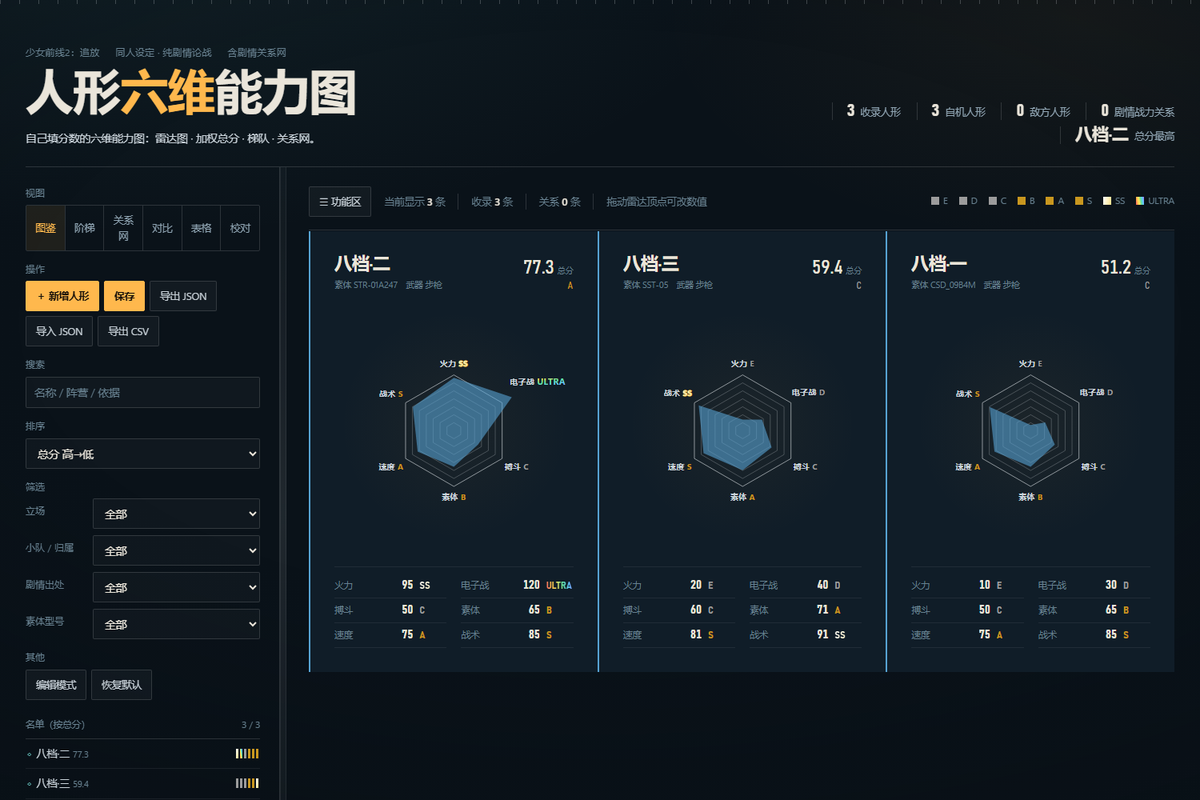
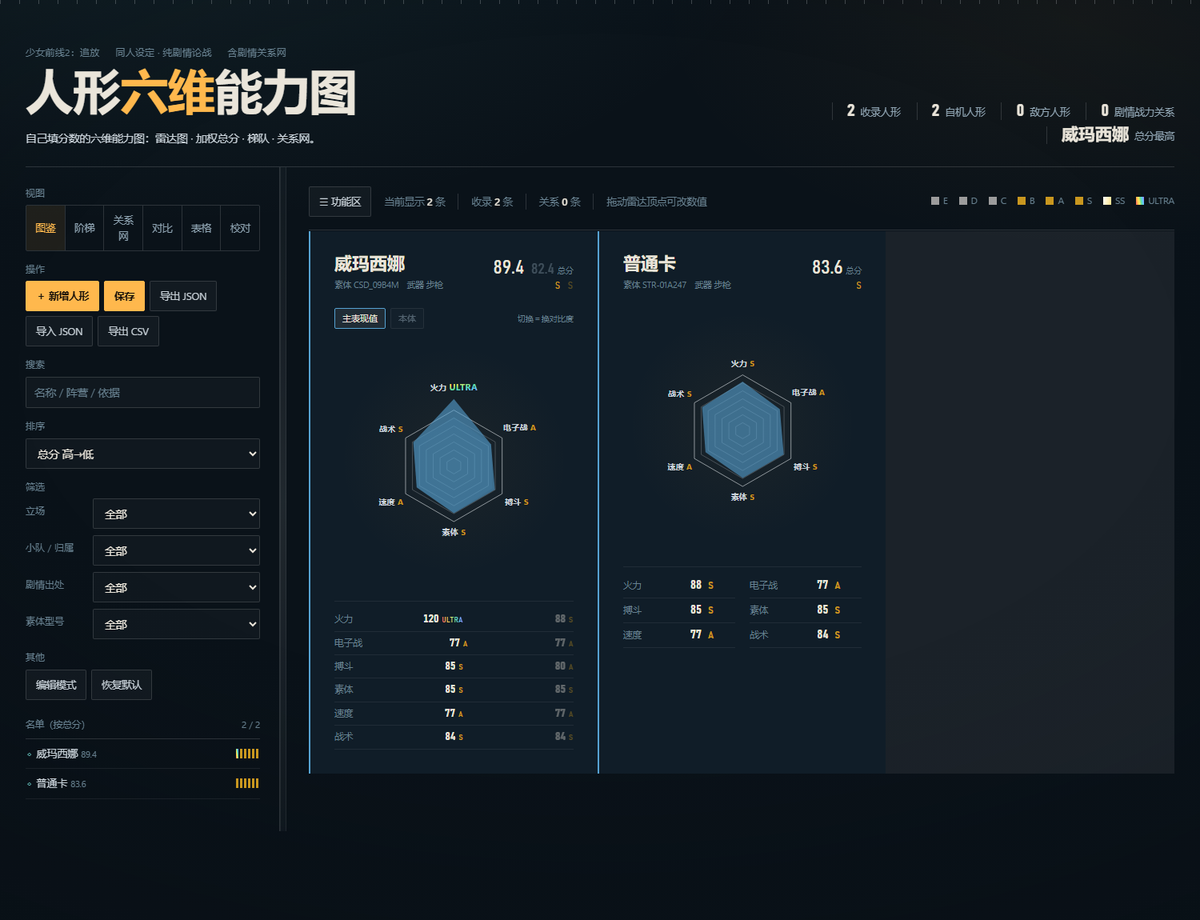
feat(dual): 双形态重新接回——改为条目自带第二形态 + 威玛西娜/六分仪一键预设
- 内置数据清空后双形态没有数据可显示，故把双形态做成条目属性：编辑人形时填「主形态名称 / 第二形态名称 + 第二形态六维数值」
- 保存为 e.formLabel / e.form2={label,vals}；fvOf() 优先读条目自带，其次回退内置 FORM_DATA（按名字匹配）
- 编辑弹窗新增「双形态」区：两个名称输入 + 六个数值输入 + 一键预设下拉（会连同主形态数值一起填入）
- 预设：威玛西娜 带断罪者／本体、六分仪 入队时／当反派时（数值取自 _work/archive 归档）
- 卡片：双形态时渲染 .dual（两条折线、切换按钮、双总分、双列账本），切换＝换对比度
- 端到端实测：预设→保存→卡变 dual（图元 2、按钮 2、账本双列），点击切换 data-active 0↔1 正常；19 PASS
- 更新 README 预览图与进展摘要

diff --git a/少前2_人形六维能力图.html b/少前2_人形六维能力图.html
@@ -178,6 +178,14 @@ table.roster td.num{font-variant-numeric:tabular-nums}
 .sheet h2{font-family:var(--dsp);font-size:26px;font-weight:600;margin-bottom:18px}
 .grid2{display:grid;grid-template-columns:1fr 1fr;gap:14px}
 .grid2 .full{grid-column:1/-1}
+.form2{margin-top:16px;border-top:1px solid var(--line-soft);padding-top:12px}
+.form2 .f2head{display:flex;flex-wrap:wrap;gap:10px;align-items:center;margin-bottom:9px;font-size:11.5px;color:var(--paper-faint)}
+.form2 .f2head b{color:var(--paper-2);font-weight:600;font-size:12.5px}
+.form2 .f2head select{margin-left:auto;padding:3px 6px;background:var(--ink-900);border:1px solid var(--line);border-radius:2px;color:var(--paper-2);font-size:12px}
+.form2 .f2row{display:grid;grid-template-columns:1fr 1fr;gap:12px;margin-bottom:9px}
+.form2 .f2vals{display:grid;grid-template-columns:repeat(6,1fr);gap:8px}
+.form2 .f2vals label{display:flex;flex-direction:column;gap:4px;font-size:11px;color:var(--paper-faint)}
+.form2 .f2vals input{width:100%;padding:3px 5px;background:rgba(0,0,0,.22);border:1px solid var(--line);border-radius:2px;color:inherit;font-variant-numeric:tabular-nums}
 .sliders{margin-top:20px;border-top:1px solid var(--line);padding-top:14px}
 .editcmp{display:flex;gap:20px;align-items:flex-start;margin-top:16px;border-top:1px solid var(--line);padding-top:14px}
 .editchart{flex:0 0 290px}.editchart svg{width:290px;height:290px;display:block}
@@ -393,6 +401,18 @@ svg.net{display:block;width:100%;height:auto}
       </div>
     </div>
     <div class="sliders" id="mSliders"></div>
+    <div class="form2">
+      <div class="f2head"><b>双形态</b>
+        <span>填了「第二形态」这张卡就会多出切换按钮（同一张图叠两形态，切换＝换对比度）</span>
+        <select id="mFormPreset"><option value="">载入预设…</option>
+          <option value="wmx">威玛西娜 · 带断罪者／本体</option>
+          <option value="lfy">六分仪 · 入队时／当反派时</option></select></div>
+      <div class="f2row">
+        <label class="field"><span>主形态名称</span><input id="mFormLabel" type="text" placeholder="主表现值"></label>
+        <label class="field"><span>第二形态名称</span><input id="mForm2Label" type="text" placeholder="如 本体"></label>
+      </div>
+      <div class="f2vals" id="mForm2Vals"></div>
+    </div>
     <div class="sheetactions"><button class="btn" id="mCancel">取消</button><button class="btn solid" id="mSave">保存</button></div>
   </div>
 </div>
@@ -720,7 +740,7 @@ function ledgerHTML(e){
 function cardHTML(e, idx, opts){
   opts = opts || {};
   var acc = ACC[e.side] || ACC.self;
-  var fv = fvOf(e.name);
+  var fv = fvOf(e);
   var V = fv ? fv.forms.map(function(f){ return fvValues(fv, f); }) : null;
   var series = fv ? fv.forms.map(function(f, i){ return { vals: V[i], color: acc, cls: 'fp f' + i }; })
                   : [{ vals:e.s, color:acc, letters:dimLettersOf(e) }];
@@ -1082,11 +1102,25 @@ function renderTable(){
 
 /* ---------- 双形态缩略图（威玛西娜 / 六分仪：同一张六维图叠两形态，切换＝换对比度） ---------- */
 var formPick = null;
-function fvOf(name){
+function fvOf(x){
+  var e = (typeof x === 'string') ? byName(x) : x;
+  /* ① 条目自带双形态（编辑弹窗里填的「第二形态」，优先级最高） */
+  if (e && e.form2 && e.form2.vals && e.form2.vals.length === 6){
+    return { id:e.id, name:e.name, own:true, forms:[
+      { label: e.formLabel || '主表现值', tag: '主表现值', values: e.s.slice() },
+      { label: e.form2.label || '另一形态', values: e.form2.vals.slice() } ] };
+  }
+  /* ② 内置 FORM_DATA（归档数据，按名字匹配） */
+  var name = e ? e.name : x;
   var arr = (FORM_DATA && FORM_DATA.chars) || [];
   for (var i = 0; i < arr.length; i++) if (arr[i].name === name) return arr[i];
   return null;
 }
+/* 双形态预设（数值取自 _work/archive/2026-10-10_完整73人形） */
+var FORM_PRESETS = {
+  wmx: { formLabel:'带断罪者', form2Label:'本体',      main:[120,77,85,85,77,84], second:[88,77,80,85,77,84] },
+  lfy: { formLabel:'入队时',   form2Label:'当反派时',  main:[73,85,78,83,56,86],  second:[82,95,84,83,56,92] }
+};
 function fvLive(form){ return String(form.tag || '').indexOf('主表现值') >= 0; }
 function fvValues(ch, form){
   var e = byName(ch.name);
@@ -1197,6 +1231,33 @@ function renderMChart(){
   q('mStat').innerHTML = '总分 <b>' + tot + '</b>　' + letterOf(tot) + '　（第 ' + (totals.indexOf(tot) + 1) + '/' + totals.length + '）<br>' +
     DIMS.map(function(d,i){ return DSHORT[i] + '　' + mS[i] + '　' + (mUse[i] === false ? '<span style="color:#c9a15a">不计</span>' : dimRankInfo(mS[i], i)); }).join('<br>');
 }
+function buildForm2(e){
+  q('mForm2Vals').innerHTML = DIMS.map(function(d, i){
+    var v = (e && e.form2 && e.form2.vals) ? e.form2.vals[i] : '';
+    return '<label>' + d + '<input type="number" data-f2="' + i + '" min="0" max="200" step="1" value="' + (v === '' ? '' : v) + '" placeholder="—"></label>';
+  }).join('');
+  q('mFormLabel').value = (e && e.formLabel) ? e.formLabel : '';
+  q('mForm2Label').value = (e && e.form2 && e.form2.label) ? e.form2.label : '';
+}
+function readForm2(){
+  var vals = [], any = false;
+  [].forEach.call(q('mForm2Vals').querySelectorAll('input[data-f2]'), function(inp){
+    var n = parseInt(inp.value, 10);
+    if (isNaN(n)){ vals.push(0); } else { n = Math.max(0, Math.min(200, n)); vals.push(n); any = true; }
+  });
+  if (!q('mForm2Label').value.trim() && !any) return null;
+  return { label: q('mForm2Label').value.trim() || '另一形态', vals: vals };
+}
+function applyFormPreset(key){
+  var p = FORM_PRESETS[key];
+  if (!p) return;
+  q('mFormLabel').value = p.formLabel;
+  q('mForm2Label').value = p.form2Label;
+  [].forEach.call(q('mForm2Vals').querySelectorAll('input[data-f2]'), function(inp, i){ inp.value = p.second[i]; });
+  mS = p.main.slice();
+  buildSliders(); renderMChart();
+}
+q('mFormPreset').addEventListener('change', function(){ if (this.value){ applyFormPreset(this.value); this.value = ''; } });
 function openEditor(id){
   editId = id || null;
   var e = id ? byId(id) : null;
@@ -1209,6 +1270,8 @@ function openEditor(id){
   q('mRank').value = e ? e.total : '—';
   mS = e ? e.s.slice() : [50,50,50,50,50,50];
   mUse = e && Array.isArray(e.use) ? e.use.slice() : [true,true,true,true,true,true];
+  buildForm2(e);
+  q('mFormPreset').value = '';
   q('mCmpPick').innerHTML = cmpOptions();
   q('mCmpPick').value = mCmpId;
   buildSliders();
@@ -1224,6 +1287,10 @@ function saveEditor(){
   var rec = { name:name, faction:q('mFac').value.trim(), cls:q('mCls').value.trim(), weapon:q('mWeapon').value.trim(),
     brand:q('mBrand').value.trim(), frame:q('mFrame').value.trim(), side:q('mSide').value, src:q('mSrc').value.trim(),
     conf:q('mConf').value, basis:q('mBasis').value.trim(), s:mS.slice(), use:use, total:total, rank:total, tier:letterOf(total) };
+  /* 双形态：第二形态填了才算数 */
+  var f2 = readForm2();
+  rec.formLabel = q('mFormLabel').value.trim() || '';
+  if (f2) rec.form2 = f2;
   if (editId){ var e = byId(editId); for (var k in rec) e[k] = rec[k]; } else { rec.id = uid(); state.entries.push(rec); }
   save(); closeEditor(); render();
 }

diff --git a/_work/进展摘要.md b/_work/进展摘要.md
@@ -41,6 +41,14 @@
 
 非等距八档：**E 0–20 · D 21–40 · C 41–60 · B 61–70 · A 71–80 · S 81–90 · SS 91–100 · >100 ULTRA**。实现为 `GBANDS = [20,40,60,70,80,90,100]` 上界表 + `letterOf()` 顺序判断（页面／调参器／校验脚本三处同步）；刻度图例带区间 tooltip。
 
+## 2.7 双形态（2026-10-10 重新接回）
+
+内置数据被清空后双形态无从显示，故改成**条目自带**：编辑人形时填「主形态名称 / 第二形态名称 + 第二形态六维数值」，保存为 `e.formLabel` / `e.form2 = { label, vals }`。`fvOf()` 优先读条目自带，其次才回退到内置 `FORM_DATA`（按名字匹配）。卡上出现「主表现值 / 第二形态」按钮，切换只改对比度；总分与账本双列并排。
+
+弹窗内两个一键预设（数值取自 `_work/archive/2026-10-10_完整73人形`）：
+- 威玛西娜：主＝带断罪者 [120,77,85,85,77,84]（89.4）／二＝本体 [88,77,80,85,77,84]（82.4）
+- 六分仪：主＝入队时 [73,85,78,83,56,86]（77.9）／二＝当反派时 [82,95,84,83,56,92]（83.2）
+
 ## 3. 关键约定（别踩）
 
 - **权重必须按 DIMS 索引取**：`WEIGHTS` 与 `DIMS` 必须同序（自检 14 盯着）。
